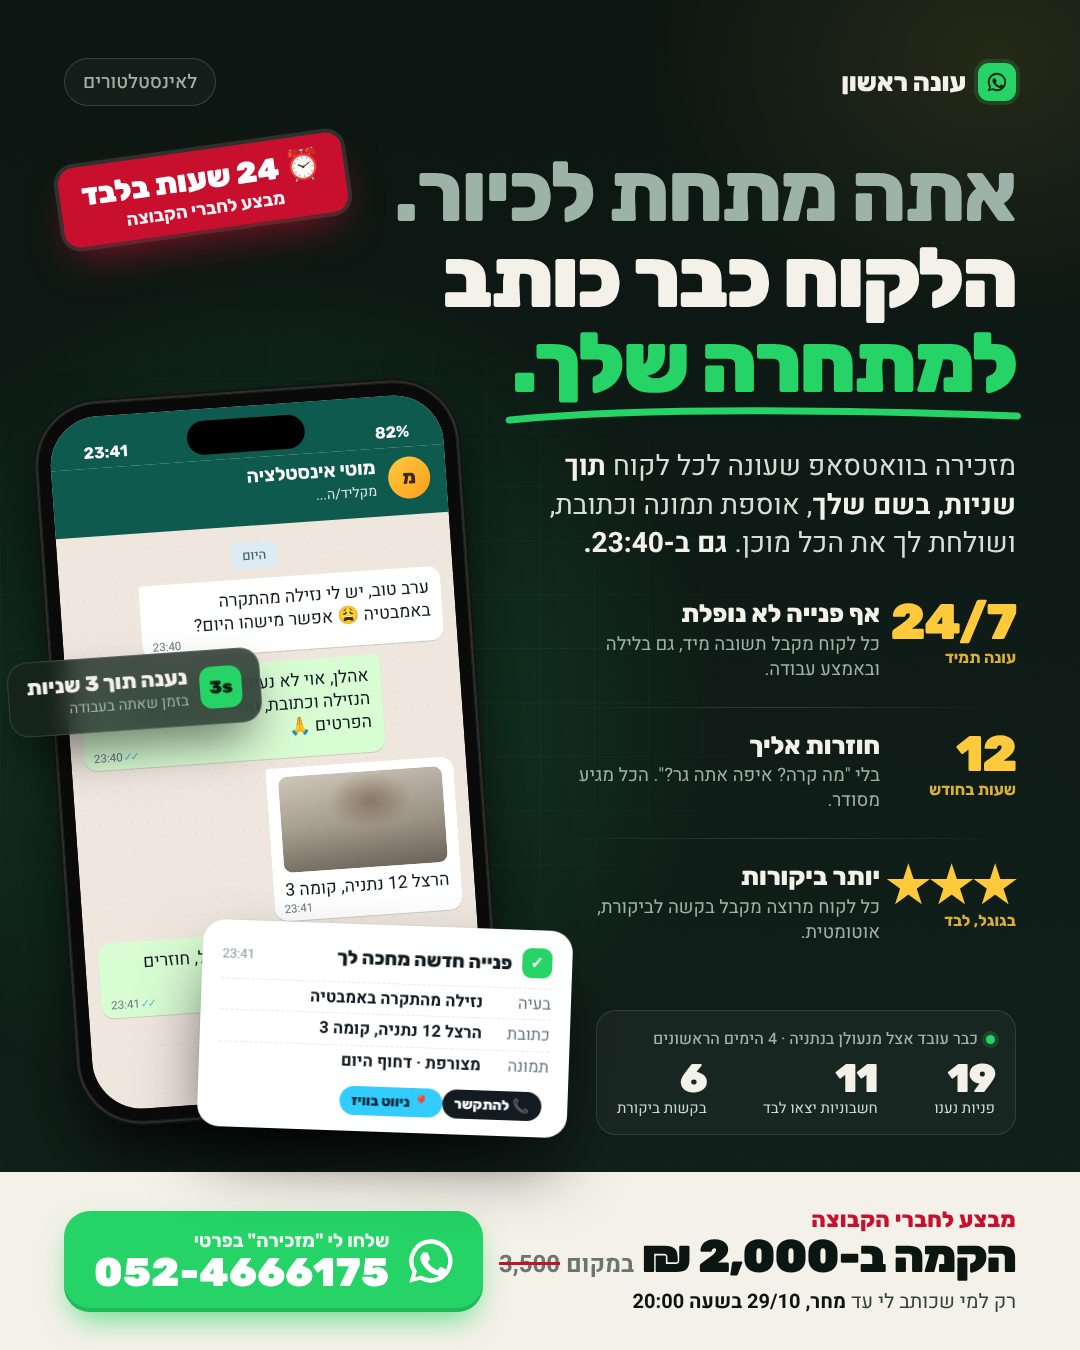
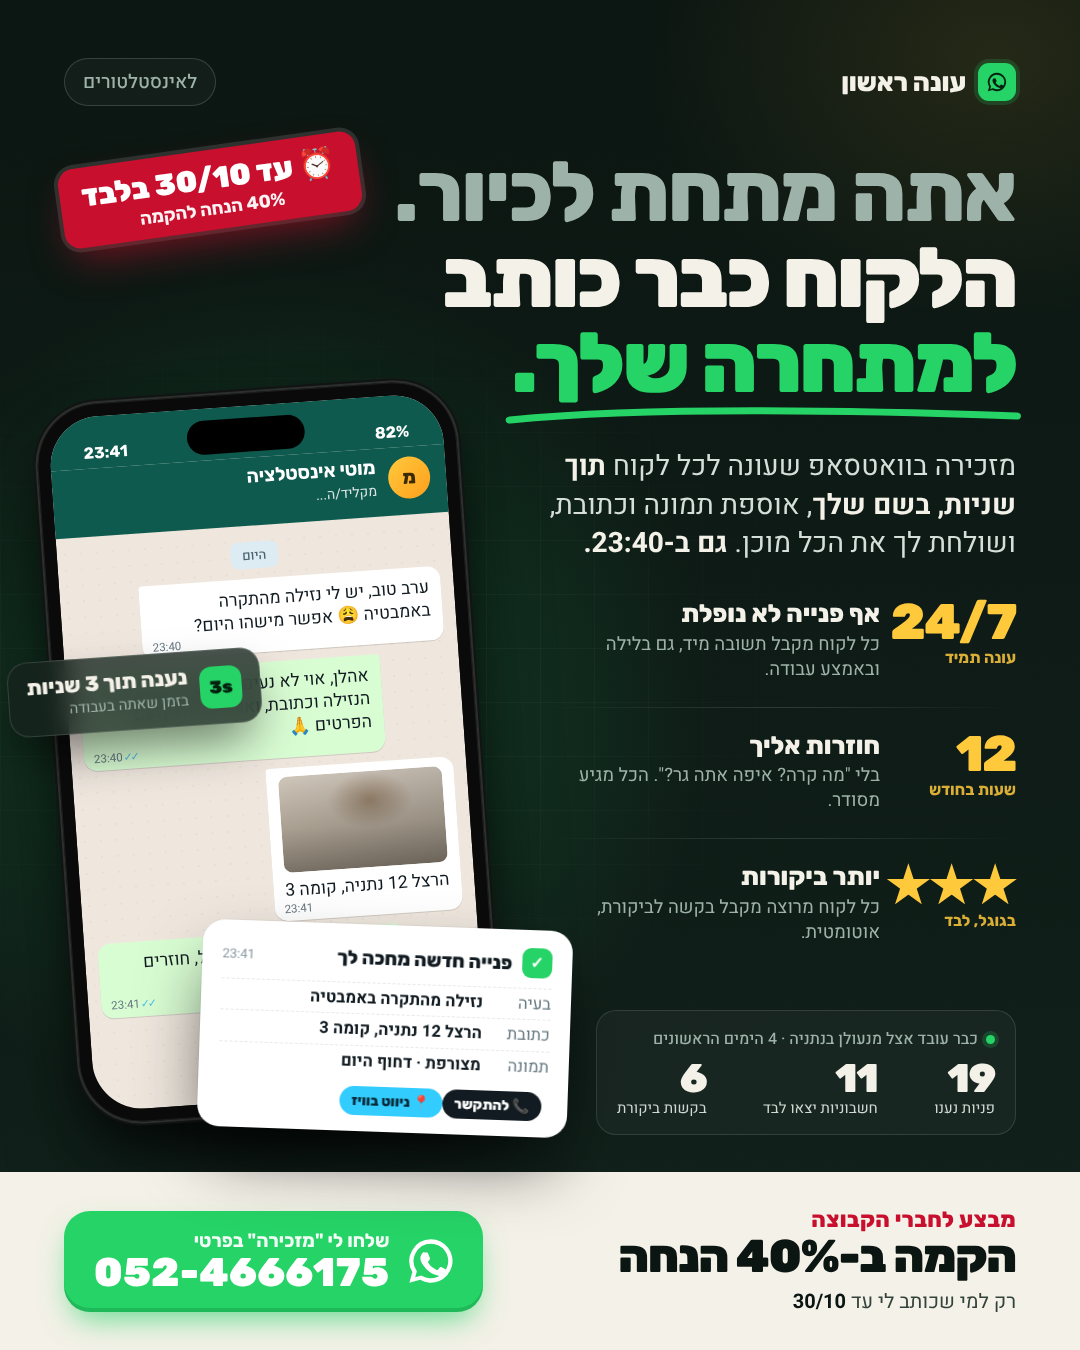
Plumbers group ad: 40% off setup until 30/10, no prices
Claude-Session: https://claude.ai/code/session_01ASRMwiCmV7VLN1LwrbbDK1

Changed region(s): [[0.4583, 0.9022, 0.7944, 0.9956], [0.0917, 0.0933, 0.3361, 0.1867]]

diff --git a/automation-agency/marketing/ad-plumbers-24h.html b/automation-agency/marketing/ad-plumbers-24h.html
@@ -173,12 +173,12 @@ h1 .mark svg{position:absolute;right:-6px;left:-6px;bottom:-14px;width:calc(100%
 </div>
 
 <!-- CTA -->
-<div class="stamp">⏰ 24 שעות בלבד<small>מבצע לחברי הקבוצה</small></div>
+<div class="stamp">⏰ עד 30/10 בלבד<small>40% הנחה להקמה</small></div>
 <div class="cta z">
   <div class="deal">
     <div class="lbl">מבצע לחברי הקבוצה</div>
-    <div class="px">הקמה ב-2,000 ₪ <span class="was">במקום <s>3,500</s></span></div>
-    <div class="until">רק למי שכותב לי עד <b>מחר, 29/10 בשעה 20:00</b></div>
+    <div class="px">הקמה ב-40% הנחה</div>
+    <div class="until">רק למי שכותב לי עד <b>30/10</b></div>
   </div>
   <div class="btn">
     <svg viewBox="0 0 24 24" fill="#fff"><path d="M12 2a10 10 0 0 0-8.6 15.1L2 22l5-1.3A10 10 0 1 0 12 2zm0 2a8 8 0 1 1-4.1 14.9l-.3-.2-2.9.8.8-2.8-.2-.3A8 8 0 0 1 12 4zm-3.2 4c-.2 0-.5 0-.7.3-.3.3-1 1-1 2.4s1 2.8 1.2 3c.1.2 2 3.2 5 4.4 2.5 1 3 .8 3.5.7.6 0 1.8-.7 2-1.4.3-.7.3-1.3.2-1.4l-.5-.3-1.8-.9c-.3-.1-.5-.1-.7.2l-.8 1c-.2.2-.3.2-.6.1-.3-.2-1.2-.5-2.3-1.4-.9-.8-1.4-1.7-1.6-2-.2-.3 0-.4.1-.6l.4-.5.3-.5v-.5l-.8-2c-.2-.5-.4-.5-.6-.5h-.5z"/></svg>
